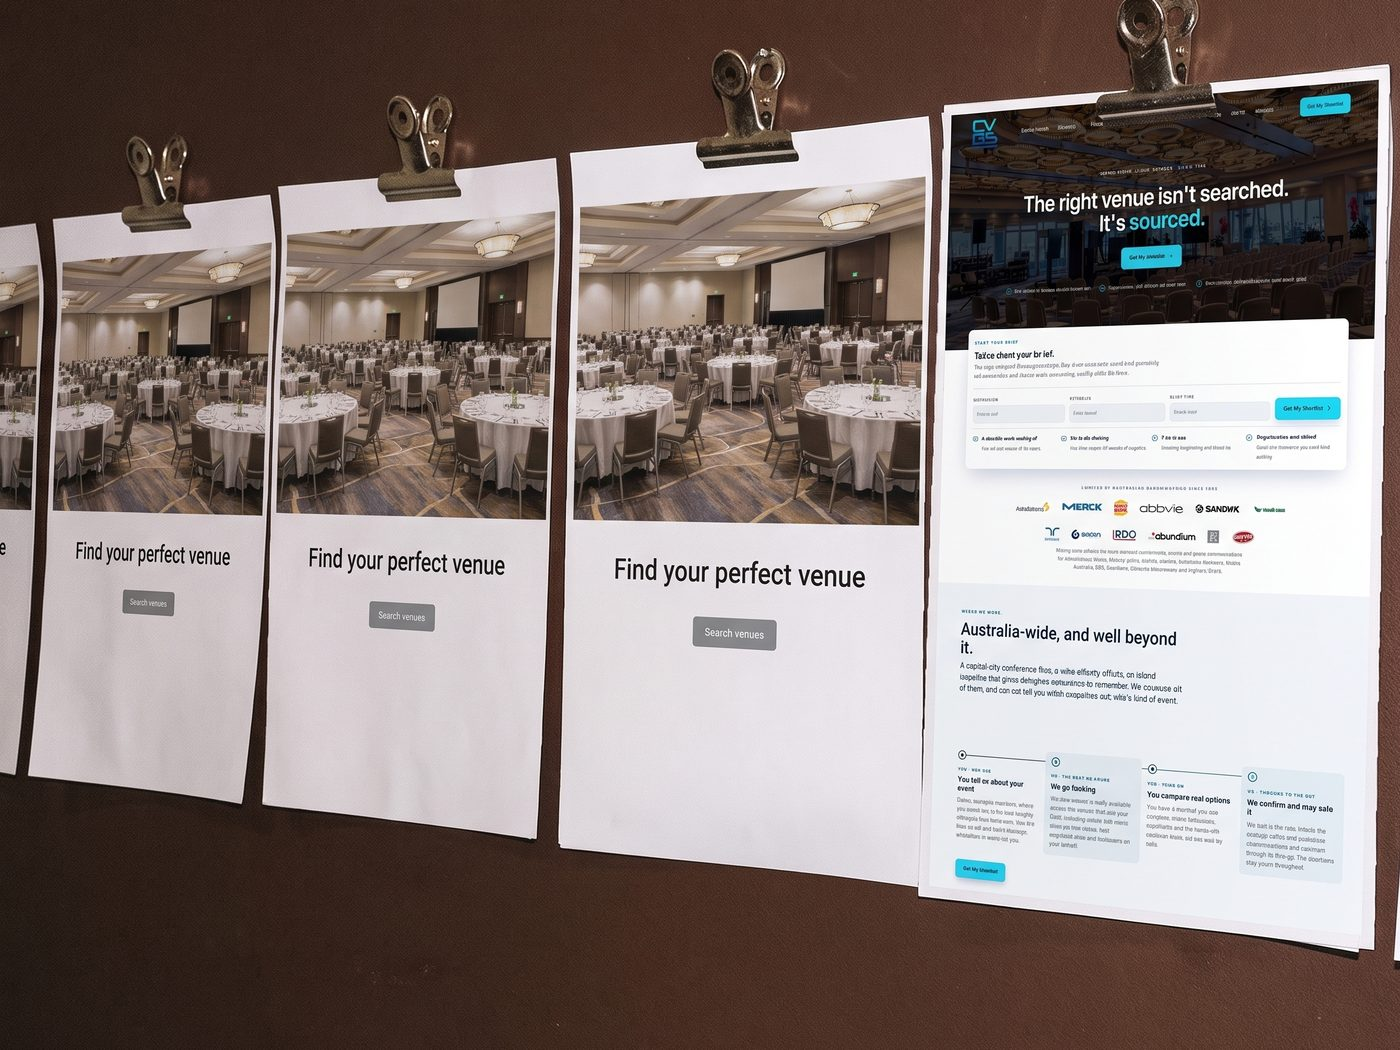
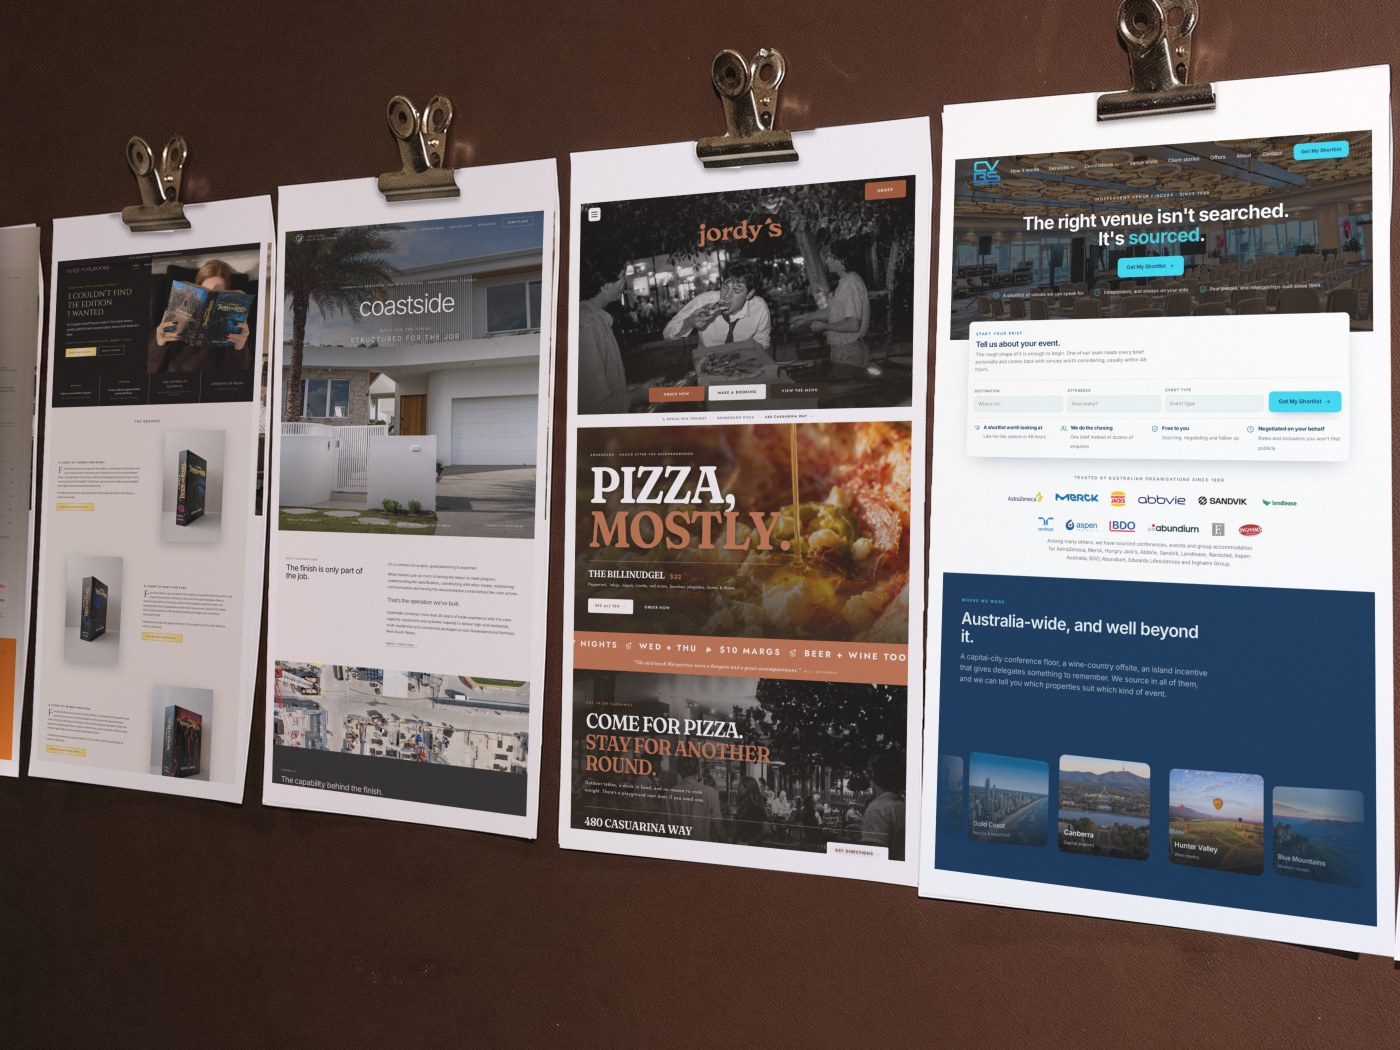
Copy section: real current builds

diff --git a/index.html b/index.html
@@ -261,7 +261,7 @@ footer small{display:block;margin-top:14px;opacity:.55;font-size:13px}
       <article class="layer rv">
         <div class="txt"><span class="num">02 · Copy</span><h3 class="caps">Good copy doesn't sound like everyone else.</h3>
         <p>"Find your perfect venue" is on every booking site. "The right venue isn't searched. It's sourced." says what CVBS does that a search box can't. Every generic line is cut until the site sounds like the business, not the internet.</p></div>
-        <div class="fig"><img src="v2/assets/layer-copy.jpg?v=20260927cvbs" alt="Three generic venue sites that all say Find your perfect venue, clipped to a wall beside the real CVBS homepage" loading="lazy"></div>
+        <div class="fig"><img src="v2/assets/layer-copy.jpg?v=20260927real" alt="Four real site builds clipped to a brown wall: Gold Foil Books, Coastside, Jordy's and CVBS, each saying something only that business could say" loading="lazy"></div>
       </article>
       <article class="layer rv">
         <div class="txt"><span class="num">03 · Search</span><h3 class="caps">The best website is useless if nobody finds it.</h3>
@@ -404,7 +404,7 @@ footer small{display:block;margin-top:14px;opacity:.55;font-size:13px}
 /* Projects. Notes are one line each: what the site was built to do. */
 var FEATURED=[
  {n:'CVBS',i:'Events & Venues',l:'Worldwide',u:'https://the-service-edit.github.io/cvbs-2026/',img:'v2/assets/work-cvbs.jpg?v=20260927f',note:'A global venue finding business, rebuilt in phases around trust rather than search.'},
- {n:'Jordy\u2019s',i:'Hospitality',l:'Casuarina, NSW',u:'https://jordyscasuarina.com',img:'v2/assets/work-jordys.jpg?v=20260927j',note:'A pizza and margarita bar, built to get people booking a table or ordering in, with the email running alongside it.'},
+ {n:'Jordy\u2019s',i:'Hospitality',l:'Casuarina, NSW',u:'https://jordyscasuarina.com',img:'v2/assets/work-jordys.jpg?v=20260927k',note:'A pizza and margarita bar, built to get people booking a table or ordering in, with the email running alongside it.'},
  {n:'Coastside Solid Plastering',i:'Specialist Trades',l:'Gold Coast, QLD',u:'https://coastside.theserviceedit.com',img:'v2/assets/work-coastside.jpg?v=20260927f',note:'Commercial rendering, built so a builder can check capacity and systems before sending plans.'},
  {n:'Gold Foil Books',i:'E-commerce',l:'Wollongong, NSW',u:'https://goldfoilbooks.com.au',img:'v2/assets/work-goldfoil.jpg?v=20260927f',note:'Hand-bound special editions sold worldwide, with the craft doing the selling.'},
  {n:'NutterJuck Lures',i:'Handmade Lures',l:'Australia',u:'https://the-service-edit.github.io/nutterjuck/',img:'v2/assets/work-nutterjuck.jpg?v=20260927f',note:'Handmade fishing lures with a shop built to be as simple as the product.'},
